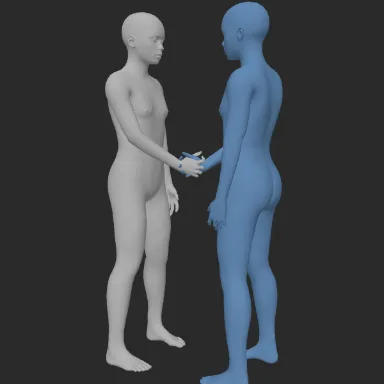
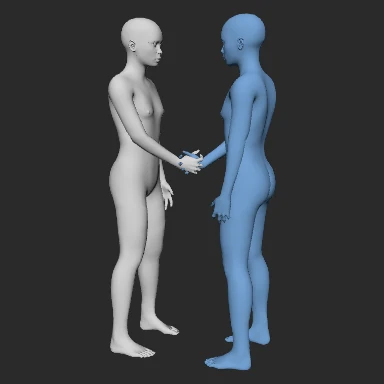
Pose Library: interaction previews frame every body (#33, #16)
Adds scripts/interaction_presets/render_previews.mjs, which renders the
Interactions previews from the preset JSONs with Pose Studio's viewer in
headless Chromium and fits the camera to the posed geometry of all
characters with a fixed margin. The regenerated previews no longer crop
heads, raised hands or feet (Group photo, High five, ...). Documents the
scene-pose load, the contact fit and the preview renderer.

Claude-Session: https://claude.ai/code/session_01LzWzgi27ZgzkRJTmRGN7YL

Changed region(s): [[0.25, 0.0, 0.75, 1.0]]

diff --git a/docs/UNICANVAS_POSE_LAYERS.md b/docs/UNICANVAS_POSE_LAYERS.md
@@ -60,11 +60,13 @@ The layer context menu has **Split characters to layers** (pose layers with 2+ m
 
 ## Interaction presets
 
-The Pose Library ships a read-only **Interactions** category (repository `vnccs_interaction_presets`, files in `pose_presets/Interactions/`): hug, handshake, high five, kiss on the cheek, arm around the shoulder, princess carry, piggyback, punch and block, sitting side by side, whisper, pointing at each other, dancing pair and a three-person group photo. They are v3 `scene_pose` assets whose characters carry poses and placement but no body, name or color. Loading any multi-character pose scene outside animation mode now replaces the whole scene through `loadCharacterSceneLibraryAsset`; `inheritSlotIdentity` (`web/vnccs_pose_interactions.mjs`) keeps the body, name and color of the mannequin already in each slot when the asset has none, and UniCanvas keeps the bound references by slot as before.
+The Pose Library ships a read-only **Interactions** category (repository `vnccs_interaction_presets`, files in `pose_presets/Interactions/`): hug, handshake, high five, kiss on the cheek, arm around the shoulder, princess carry, piggyback, punch and block, sitting side by side, whisper, pointing at each other, dancing pair and a three-person group photo. They are v3 `scene_pose` assets whose characters carry poses and placement but no body, name or color.
 
-Presets are authored at the default proportions and store `interaction.reference_heights` (per slot). After the bodies load, `applyInteractionHeightScaling` scales each character's offset from the pair's midpoint, and its height above the ground, by its height ratio to that reference (a carried character follows its `supports` slot), so an adult and a child still meet horizontally. Heights come from the vertical extent of each morphed mesh; the bone-length proportion sliders are not included, and vertical offsets (a child's hand is lower) are left to the user, since Pose Studio has no effector API to snap the passive mannequins' hands.
+In a UniCanvas pose layer, loading any multi-character pose outside animation mode poses the layer's mannequins instead of replacing them (`applyScenePoseToCharacters`, enabled by the `keepCharactersOnScenePose` host option): the mannequins are matched to the asset's characters in slot order and take their pose and placement on the active tab, keeping their id, name, color and body, so references and bake state stay bound (a bake becomes stale because the pose changed). Missing mannequins are added with the active body; extra mannequins are left unchanged. The whole load is one Undo / Redo step: the history entry carries a scene snapshot (`captureSceneHistory` / `restoreSceneHistory`). Standalone Pose Studio still replaces the whole scene through `loadCharacterSceneLibraryAsset`, where `inheritSlotIdentity` (`web/vnccs_pose_interactions.mjs`) keeps the body, name and color of the mannequin in each slot when the asset has none.
 
-The presets are generated by `node scripts/interaction_presets/build.mjs` from `scripts/interaction_presets/presets.mjs`, which poses a headless copy of Pose Studio's rig (`rig.mjs`, the same MakeHuman pack and bone hierarchy) with two-bone IK towards the contact points; `tests/test_pose_interaction_presets.mjs` checks that the committed files match the generator and that every listed contact meets at the default proportions.
+Presets are authored at the default proportions and store `interaction.reference_heights` (per slot) and, per contact, the authored `offset` between its two points. After the bodies load, `applyInteractionHeightScaling` scales each character's offset from the pair's midpoint, and its height above the ground, by its height ratio to that reference (a carried character follows its `supports` slot). A body's standing height is its morphed mesh's vertical extent plus what the bone-length sliders add to its rest skeleton (`proportionedHeight` in `web/vnccs_pose_contacts.mjs`). Then `fitInteractionContacts` moves the hands of every hand contact with two-bone IK on the loaded rigs until the scaled offset holds again: two hands meet halfway (a child reaches up, an adult reaches down), and when the arms cannot get there two standing characters step closer or apart. Contacts without a hand (a hug's chest contact, a carried character's seat) are left to placement.
+
+The presets are generated by `node scripts/interaction_presets/build.mjs` from `scripts/interaction_presets/presets.mjs`, which poses a headless copy of Pose Studio's rig (`rig.mjs`, the same MakeHuman pack and bone hierarchy) with two-bone IK towards the contact points; `tests/test_pose_interaction_presets.mjs` checks that the committed files match the generator and that every listed contact meets at the default proportions. The previews next to them are rendered from those JSONs by `node scripts/interaction_presets/render_previews.mjs` (Pose Studio's viewer in headless Chromium through Playwright), which frames the posed geometry of every character with a fixed margin so no preview crops a head, hand or foot.
 
 ## Scene timeline and animation export
 
